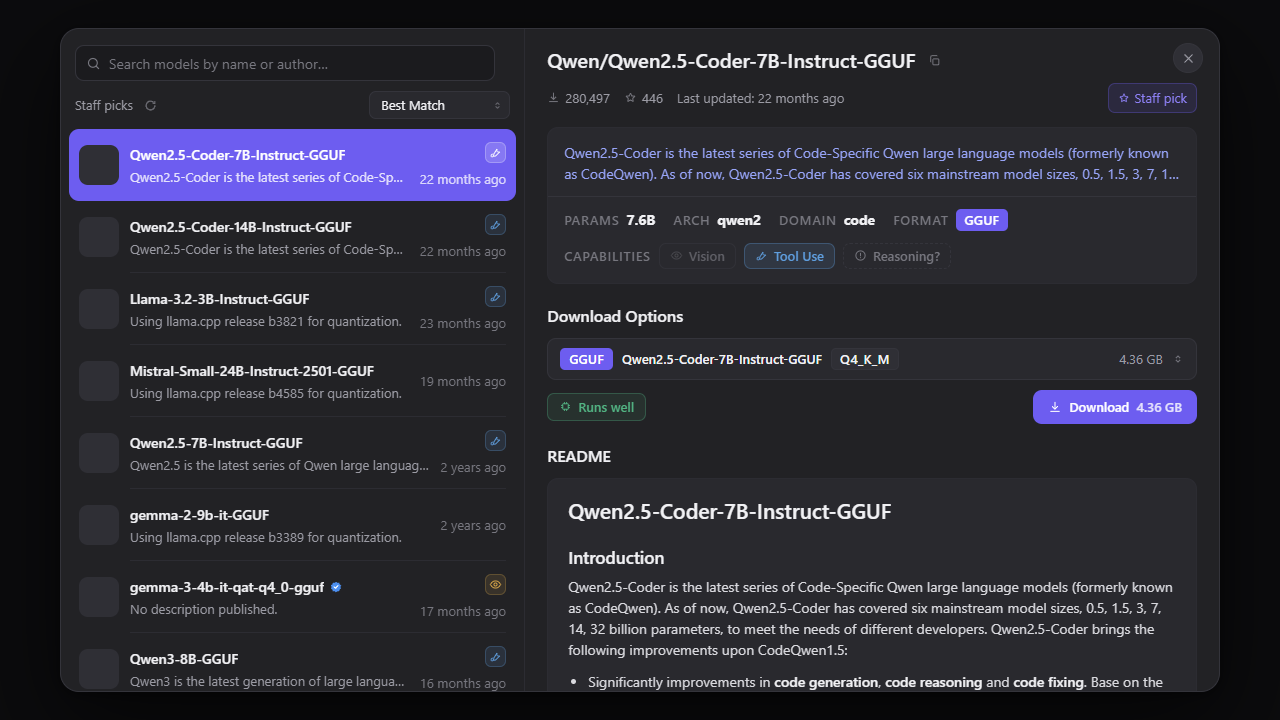
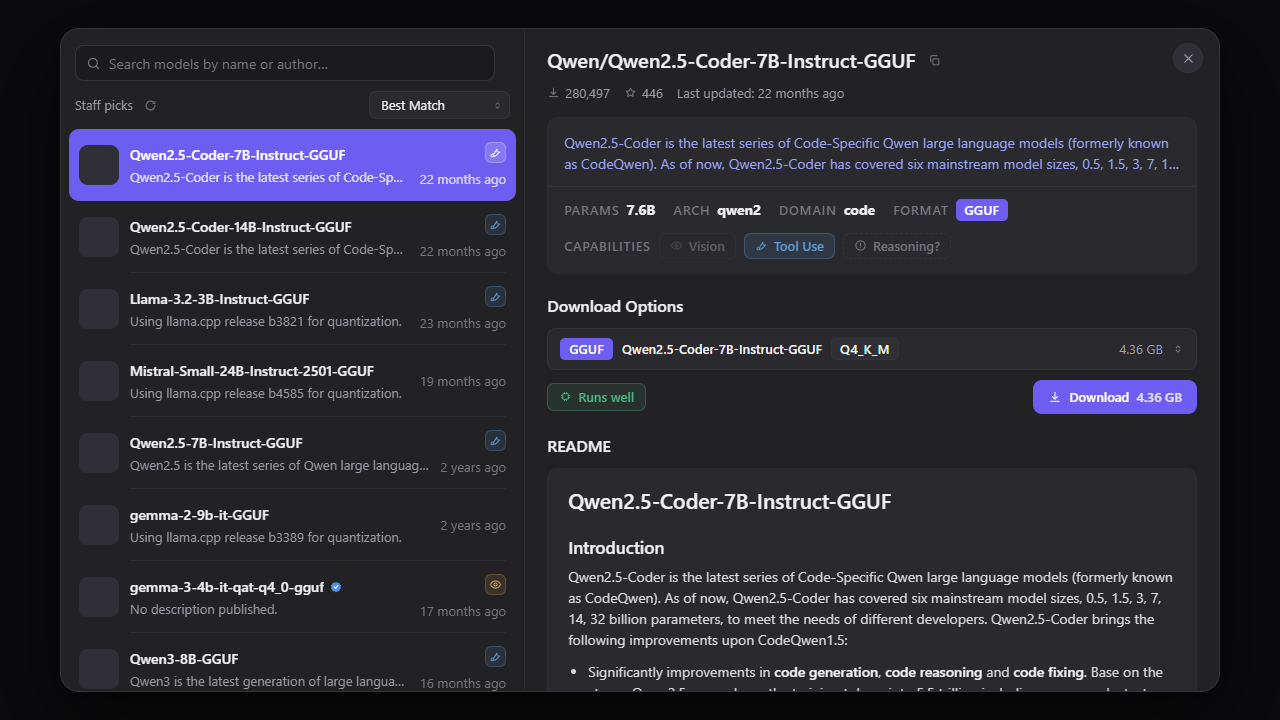
Let both panes of the model browser scroll
Reported: the models page will not scroll, and the staff pick badge is
not wanted.

The scroll bug was one missing line and it broke both panes differently.
A grid item's min-height is auto, so neither pane was held to the height
of the row it sits in: a 2,458px README made the detail pane 976px tall
inside a 778px modal, and .mb-modal's overflow:hidden clipped the bottom
198px away where no scrolling could reach it. The list was worse --
.mb-rows is flex:1 of a parent that had itself grown, so its scrollHeight
equalled its clientHeight and the wheel did nothing at all.

  .mb-list, .mb-detail { min-height: 0 }

Measured in the running desktop window before and after. Before: wheel
over the list moved scrollTop 0, and both panes measured 976 against a
778px row. After: the list scrolls 198, the detail scrolls 600, and both
panes measure exactly 778.

The visual check passed throughout, which is the more useful half of
this. It asserted scrollHeight > clientHeight, and that is true both of a
pane that scrolls correctly and of one that has grown past the modal and
is being clipped -- so it could never tell the good case from the bug it
was there to catch. It now compares each pane against the height of the
row, and separately proves the list actually moves when scrolled rather
than merely reporting that it could. Reverting the one CSS line makes it
fail at all four sizes with "a pane is taller than the modal and is being
clipped: .mb-list 976>778".
[…]

diff --git a/public/assets/forgelocal.css b/public/assets/forgelocal.css
@@ -3215,6 +3215,19 @@ a.vh:focus-visible { position: fixed; left: 12px; top: 12px; z-index: 400;
 
 .mb-panes { flex: 1; min-height: 0; display: grid;
   grid-template-columns: 40% 1px 1fr; }
+/* Both panes, held to the height of the row rather than to their content.
+ *
+ * A grid item's min-height is auto, so a pane grows to fit whatever is
+ * inside it — a 2,458px README made the detail pane 976px tall inside a
+ * 778px modal, and .mb-modal's overflow:hidden then clipped the bottom
+ * 198px away where no amount of scrolling could reach it. The list was
+ * worse: .mb-rows is flex:1 of a parent that had itself grown, so its
+ * scrollHeight equalled its clientHeight and the wheel did nothing at all.
+ *
+ * This is the whole fix for both. It has to be min-height rather than
+ * height, because the narrow layout stacks the panes into rows and a fixed
+ * height there would be wrong. */
+.mb-list, .mb-detail { min-height: 0; }
 .mb-div { background: var(--mb-line-soft); }
 
 /* ------------------------------------------------------- list pane -- */
